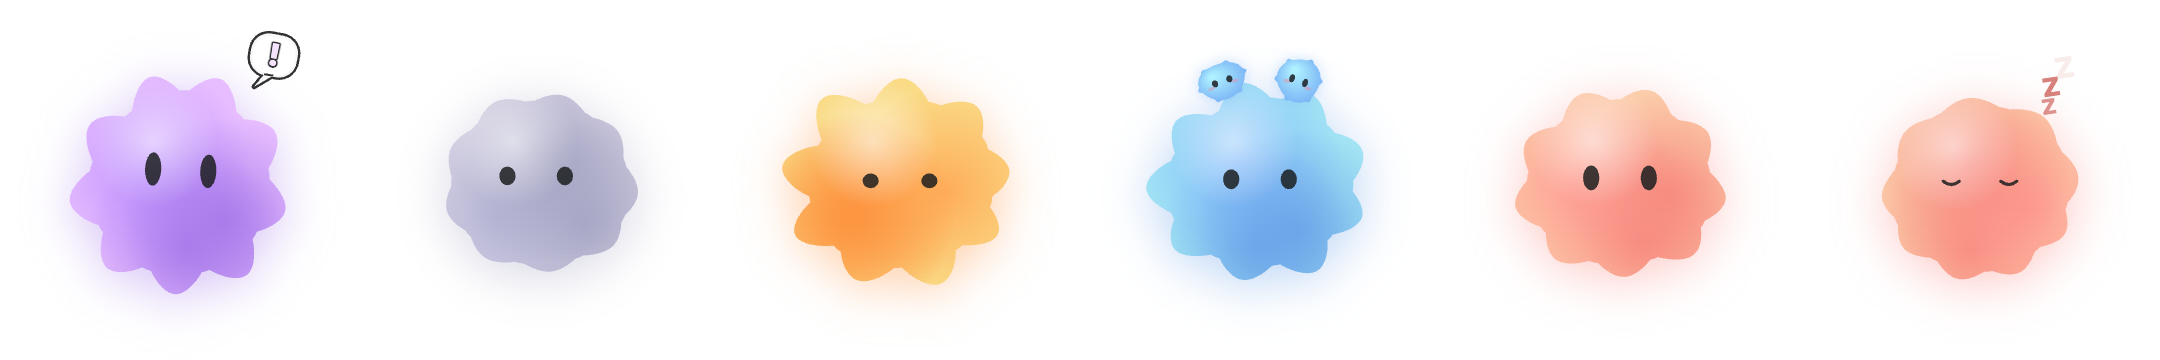
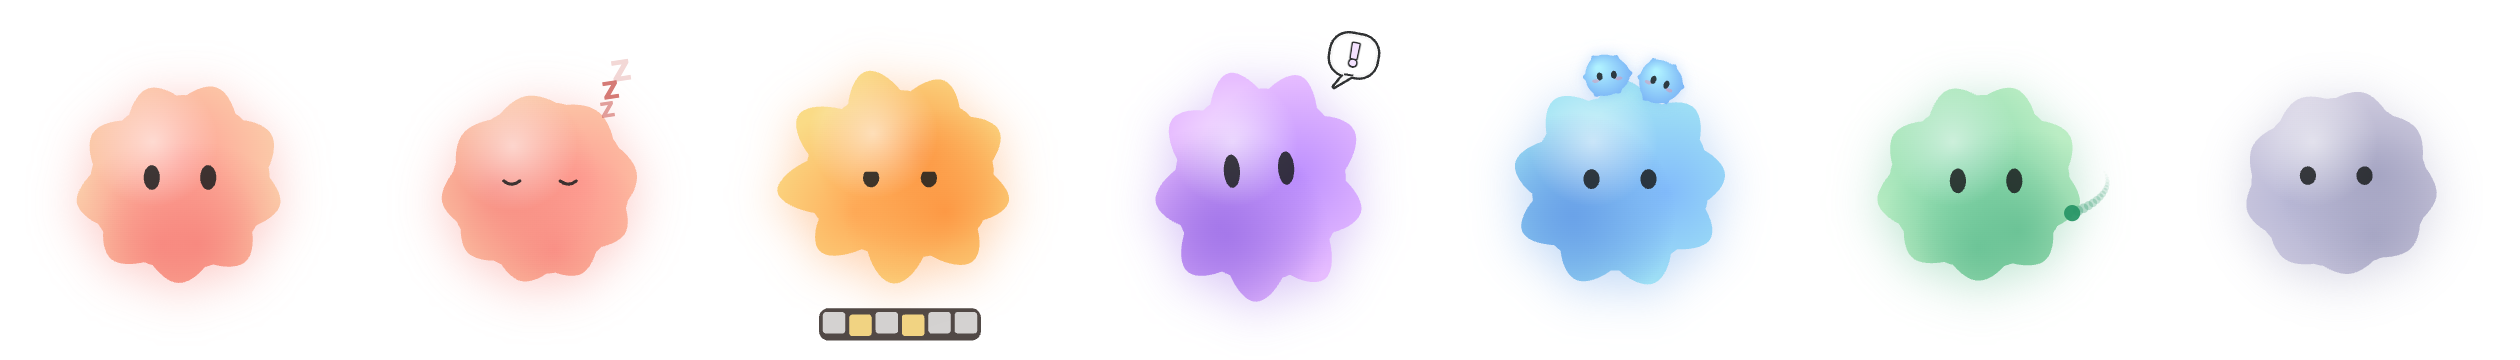
Introduce Peep's states in the order people meet them
The README table now starts from idle and working and ends with the
rare grey state, with the priority across sessions stated separately.
The state image adds mint and the typing keyboard in the same order,
and the features mention subagents and background tasks.

diff --git a/README.md b/README.md
@@ -22,7 +22,8 @@ Start a long task, switch to something else, and look up when Peep turns purple.
 
 - **Live session state** — Peep shows the most urgent state across all your Claude Code sessions
 - **Attention bubble** — a purple speech bubble when a session needs approval or an answer, with no sounds or notifications
-- **Background companions** — up to three small companions ride on Peep's head while background agents run
+- **Subagent companions** — up to three small companions ride on Peep's head while subagents run
+- **Background tasks** — Peep turns mint while Claude waits on a build, test or other task running in the background
 - **Session list** — click Peep to see every session grouped by project, with what it's doing and for how long
 - **Jump to a session** — click a session to bring its terminal forward; in Orca it opens the exact tab
 - **Stays out of the way** — Peep dozes off when nothing is happening, dims, and steps away when no session is open; its size and behavior live in Settings
@@ -43,19 +44,19 @@ Requires macOS 13 or later on Apple silicon.
 ### Peep's states
 
 <p align="center">
-  <img src="docs/assets/peep-states.png" width="720" alt="Peep in each state, left to right: purple with a speech bubble, grey, orange, blue with two companions on its head, coral, and coral asleep with closed eyes and drifting z's">
+  <img src="docs/assets/peep-states.png" width="840" alt="Peep in each state, left to right: coral, coral asleep with closed eyes and drifting z's, orange typing on a small keyboard, purple with a speech bubble, blue with two companions on its head, mint with a dot circling it, and grey">
 </p>
 
 | Peep looks              | Meaning                                          |
 | ----------------------- | ------------------------------------------------ |
-| Purple, speech bubble   | A session is waiting for your approval or answer |
-| Grey                    | Watchling missed some signals and can't tell     |
-| Orange, typing away     | Claude is working                                |
-| Blue, companions on top | Only background agents are running               |
-| Mint, a dot circling    | Claude waits on a background task                |
 | Coral, then dozes off   | Nothing to do                                    |
+| Orange, typing away     | Claude is working                                |
+| Purple, speech bubble   | A session is waiting for your approval or answer |
+| Blue, companions on top | Only subagents are still running                 |
+| Mint, a dot circling    | Claude waits on a background task                |
+| Grey                    | Watchling missed some signals and can't tell     |
 
-Mint also covers a dev server left running in the background, so after ten minutes it dozes off and dims like coral does after three. With several sessions open, Peep shows the one highest in this table. See [docs/state-model.md](docs/state-model.md) for the full rules.
+With several sessions open, Peep shows the most urgent one: purple, then grey, orange, blue, mint and coral. Mint also covers a dev server left running in the background, so after ten minutes it dozes off and dims like coral does after three. See [docs/state-model.md](docs/state-model.md) for the full rules.
 
 ### Session list
 
